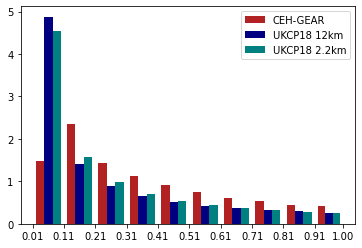
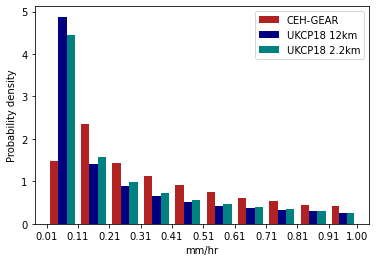
upated figs

Changed region(s): [[0.0, 0.0, 1.0, 0.9879], [0.0, 0.7056, 0.0608, 0.7621]]

diff --git a/PrecipitationPDFs/leeds-at-centre/Compare_RCM_CPM_OBS.py b/PrecipitationPDFs/leeds-at-centre/Compare_RCM_CPM_OBS.py
@@ -418,24 +418,35 @@ for dict, overlapping_status in zip([leeds_data_dict, leeds_data_dict_overlappin
         plt.savefig("Scripts/UKCP18/PrecipitationPDFs/leeds-at-centre/PDFs/PercentileThresholds/{}_{}_{}.png".format(name, overlapping_status, jja_status))
         plt.clf()
 
-#
+
+##############################################################################
+##############################################################################
+just_12km = leeds_data_dict_overlapping.copy()
+del just_12km['Model 2.2km'], just_12km['Observations Regridded_2.2km'], just_12km['Observations']
+
 # ## Proportion of values in each which are 0
 # Should this be with regridded data?
 less_low_hours_lst = []
 low_hours_lst = []
 dry_hours_lst = []
 zero_hours_lst= []
+more_than_1_hours_lst= []
 for key, value in just_12km.items():
-    print(key)
+    print(value)
     df= value
-    less_low_hours_lst.append(round((len(value[value['Precipitation (mm/hr)'] <1])/len(value) *100  ),1))
-    low_hours_lst.append(round((len(value[value['Precipitation (mm/hr)'] <0.51])/len(value) *100  ),1))
+    
     zero_hours_lst.append(round((len(value[value['Precipitation (mm/hr)'] ==0])/len(value) *100  ),1))
-    dry_hours_lst.append(round((len(value[value['Precipitation (mm/hr)'] < 0.11])/len(value) *100  ),1))
+    dry_hours_lst.append(round((len(value[(value['Precipitation (mm/hr)'] <0.11) & value['Precipitation (mm/hr)']>0])/len(value) *100  ),1))
+    low_hours_lst.append(round((len(value[(value['Precipitation (mm/hr)'] <0.51) & value['Precipitation (mm/hr)']>0])/len(value) *100  ),1))
+    less_low_hours_lst.append(round((len(value[(value['Precipitation (mm/hr)'] <1) & value['Precipitation (mm/hr)']>0])/len(value) *100  ),1))    
+    more_than_1_hours_lst.append(round((len(value[value['Precipitation (mm/hr)'] >1])/len(value) *100  ),1))
+
 zeros_df = pd.DataFrame({'Key': list(just_12km.keys()), '% hours 0': zero_hours_lst, '% hours <0.1': dry_hours_lst ,'% hours <0.5': low_hours_lst,
-                         '% hours <1': less_low_hours_lst})
+                         '% hours <1': less_low_hours_lst, '% hours >1': more_than_1_hours_lst})
 
 
+
+###############
 model_12km = just_12km['Model 12km']
 model_2_2km = just_12km['Model 2.2km_regridded_12km']
 obs = just_12km['Observations Regridded_12km']
@@ -446,5 +457,9 @@ bins = [0.01, 0.21, 0.41, 0.61, 0.81, 1.01, 1.21, 1.41, 1.61 ,1.81, 2.01]
 plt.hist([obs['Precipitation (mm/hr)'], model_12km['Precipitation (mm/hr)'], model_2_2km['Precipitation (mm/hr)']],
           label = ['CEH-GEAR', 'UKCP18 12km', 'UKCP18 2.2km'],bins = bins,
           density = True, color = ['firebrick', 'navy',  'teal'])
+plt.xlabel('mm/hr')
+plt.ylabel('Probability density')
 plt.legend()
 plt.xticks(bins)
+
+
